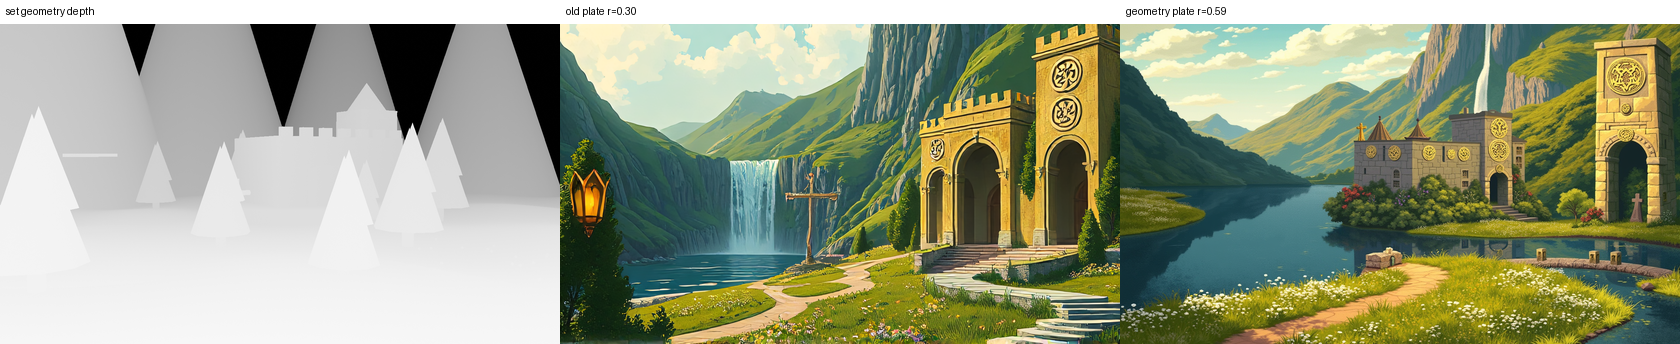
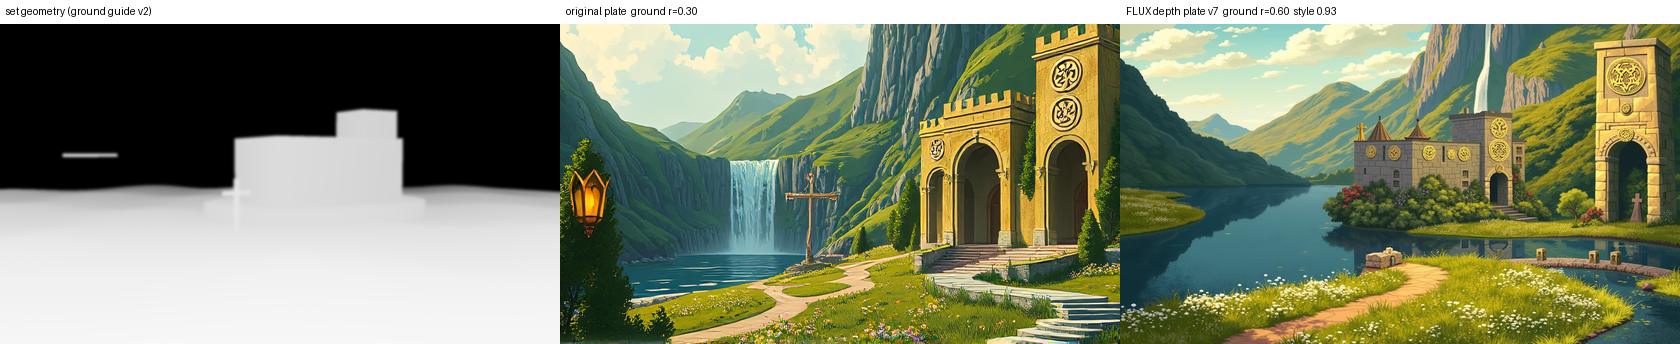
media export 20261005-1744

Changed region(s): [[0.0, 0.0291, 0.3405, 0.6686], [0.65, 0.0, 0.8048, 0.0581], [0.3405, 0.0, 0.4024, 0.0581]]

diff --git a/IMPROVE_STATUS.md b/IMPROVE_STATUS.md
@@ -1,19 +1,19 @@
 # Improvement status
 
-Updated 2026-10-05 17:19. Cycle 395.
+Updated 2026-10-05 17:43. Cycle 396.
 
 ## GPU duty cycle (last 24 h, 1-min samples)
 
-- card working (>=20%) **1%** of the last 24 h (28 busy minutes; 1362 minutes unsampled, counted idle); mean utilisation of sampled minutes 33%
+- card working (>=20%) **1%** of the last 24 h (28 busy minutes; 1338 minutes unsampled, counted idle); mean utilisation of sampled minutes 25%
 
 ## Adopted (what the masters are rendered with)
 
 - walk: RW_STRIDE=0.6, RW_DROP=0.062, RW_ARM_OUT=10 (defaults v1)
-- scene: SET_PLATE=/workspace/text-to-video/series/tir-na-nog-legend/sets/tir_na_nog/master_geo.png, SET_RELIEF_NPY=/workspace/loopwork/improve/plate_geo_depth.npy, SET_RELIEF_GAIN=0.4 (plate v7)
+- scene: SET_PLATE=/workspace/text-to-video/series/tir-na-nog-legend/sets/tir_na_nog/master_geo.png, SET_RELIEF_NPY=/workspace/loopwork/improve/plate_geo_depth.npy, SET_RELIEF_GAIN=0.8 (plate v7)
 - cast oisin: st_chibi3_oisin_m23845 (hand compactness 0.31, lower is better)
 - cast niamh: st_chibi3_niamh_m20705_tex (hand compactness 0.20, lower is better)
 - masters: nine_waterfalls_rigify_cast4d_web.mp4, nine_waterfalls_rigify_cast4_web.mp4, nine_waterfalls_loop_97c79e_web.mp4
-- masters built at inputs: ; current inputs: d1|st_chibi3_oisin_m23845|st_chibi3_niamh_m20705_tex|p4|scb8174
+- masters built at inputs: ; current inputs: d1|st_chibi3_oisin_m23845|st_chibi3_niamh_m20705_tex|p7|sf29ab3
 
 ## Settled (not re-run until an input changes)
 
@@ -28,7 +28,7 @@ Updated 2026-10-05 17:19. Cycle 395.
 - plate_flux_r0: queued @ g1
 - plate_flux_r1: queued @ g1
 - plate_flux_r2: queued @ g1
-- scene_fit: queued @ st_chibi3_oisin_m23845|st_chibi3_niamh_m20705_tex|p3
+- scene_fit: queued @ st_chibi3_oisin_m23845|st_chibi3_niamh_m20705_tex|p7
 - walk_RW_ARM_OUT: queued @ d1|st_chibi3_oisin_m22223|st_chibi3_niamh_m20705_tex|p2|s39c2a7
 - walk_RW_DROP: queued @ d1|st_chibi3_oisin_m22223|st_chibi3_niamh_m20705_tex|p2|s39c2a7
 - walk_RW_STRIDE: queued @ d1|st_chibi3_oisin_m22223|st_chibi3_niamh_m20705_tex|p2|s39c2a7
@@ -47,7 +47,6 @@ Updated 2026-10-05 17:19. Cycle 395.
 
 ## Last 12 experiments
 
-- 2026-10-03 09:11 scene_fit @387: gains 0.4,0.6,0.8 -> best gain 0.4 (on path 80%, foot float p95 0 mm) (unchanged)
 - 2026-10-03 10:37 scene_fit @389: gains 0.4,0.6,0.8 -> best gain 0.8 (on path 85%, foot float p95 0 mm) ADOPTED
 - 2026-10-05 16:18 plate_geo round 10: 9 plates (6 failed the style gate >=0.88), best agreement r=0.598 vs old plate r=0.561, adopted r=-1.000 stands
 - 2026-10-05 16:27 plate_geo round 11: 9 plates (2 failed the style gate >=0.85), best agreement r=0.601 vs old plate r=0.561, adopted r=-1.000 stands
@@ -59,3 +58,4 @@ Updated 2026-10-05 17:19. Cycle 395.
 - 2026-10-05 16:59 plate_geo round 12: 9 plates, best r12_cn0.7_flux_d75.png agreement r=0.595 style 0.930 vs old plate r=0.297 -> ADOPTED as master_geo.png (plate v7)
 - 2026-10-05 16:59 plate_geo round 13: no results
 - 2026-10-05 17:18 scene_fit @396: gains 0.4,0.6,0.8 -> best gain 0.4 (on path 84%, foot float p95 0 mm) ADOPTED
+- 2026-10-05 17:43 scene_fit @396: gains 0.4,0.6,0.8 -> best gain 0.8 (on path 83%, foot float p95 0 mm) ADOPTED

diff --git a/IMPROVE_LEDGER.md b/IMPROVE_LEDGER.md
@@ -377,3 +377,4 @@ One line per experiment the GPU loop ran, newest last.
 - 2026-10-05 16:59 plate_geo round 12: 9 plates, best r12_cn0.7_flux_d75.png agreement r=0.595 style 0.930 vs old plate r=0.297 -> ADOPTED as master_geo.png (plate v7)
 - 2026-10-05 16:59 plate_geo round 13: no results
 - 2026-10-05 17:18 scene_fit @396: gains 0.4,0.6,0.8 -> best gain 0.4 (on path 84%, foot float p95 0 mm) ADOPTED
+- 2026-10-05 17:43 scene_fit @396: gains 0.4,0.6,0.8 -> best gain 0.8 (on path 83%, foot float p95 0 mm) ADOPTED
